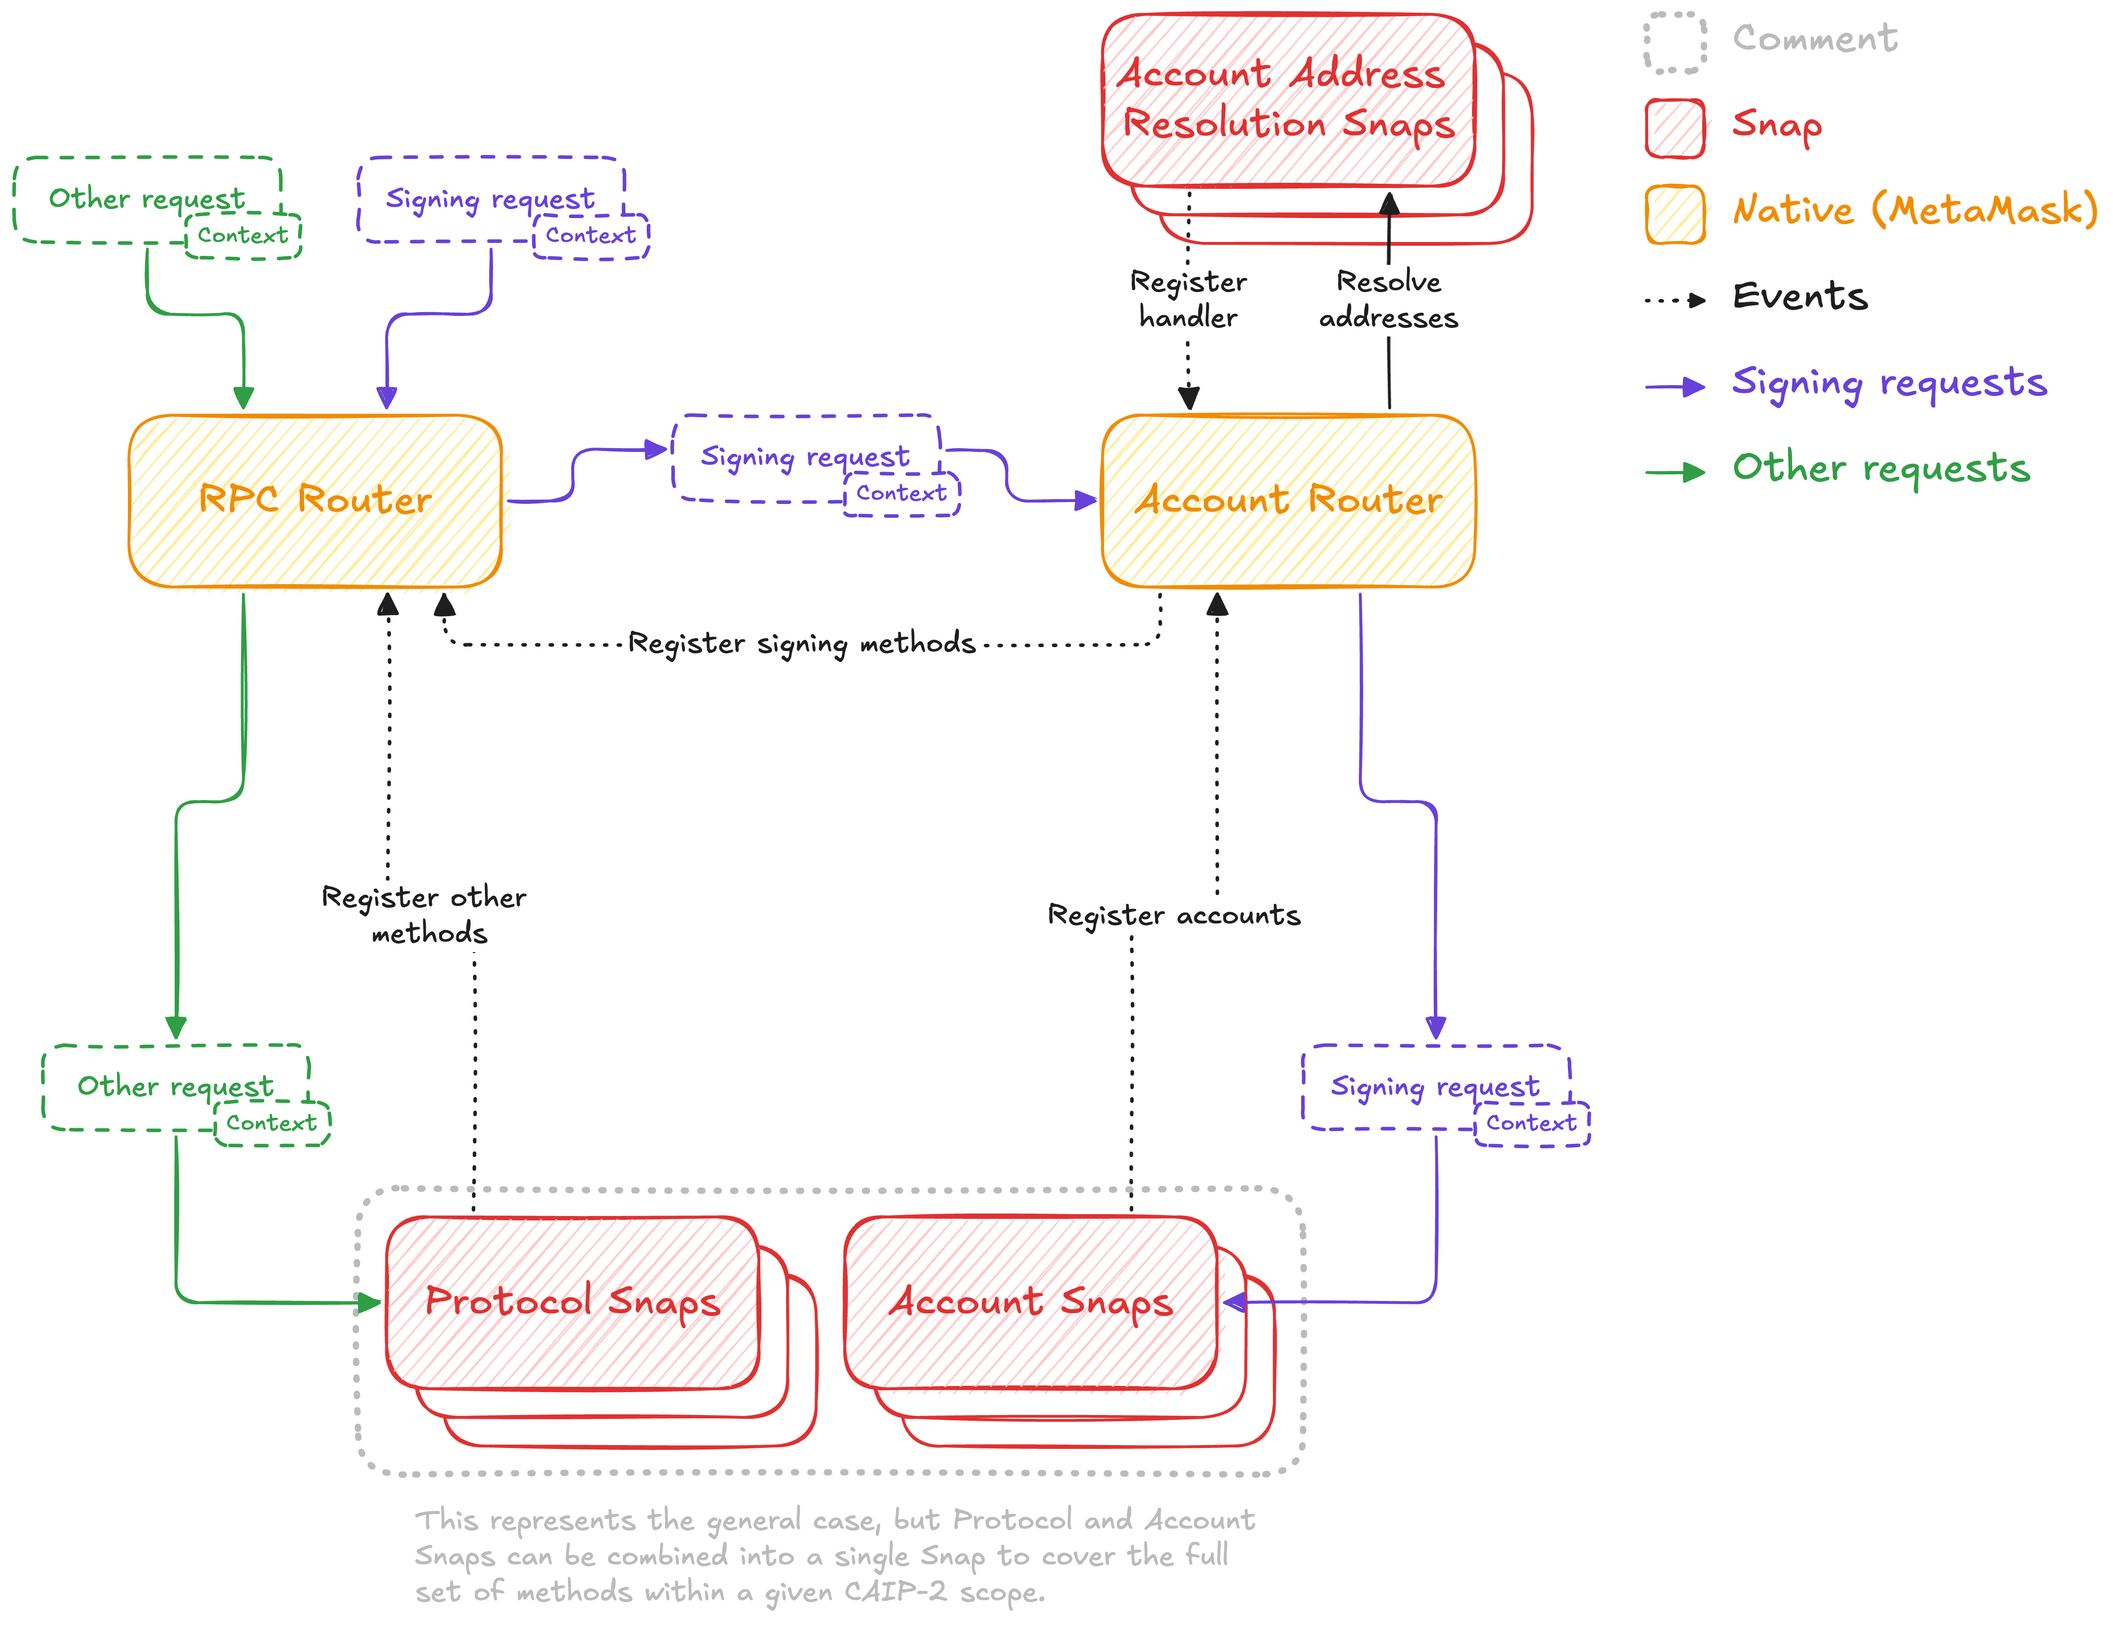
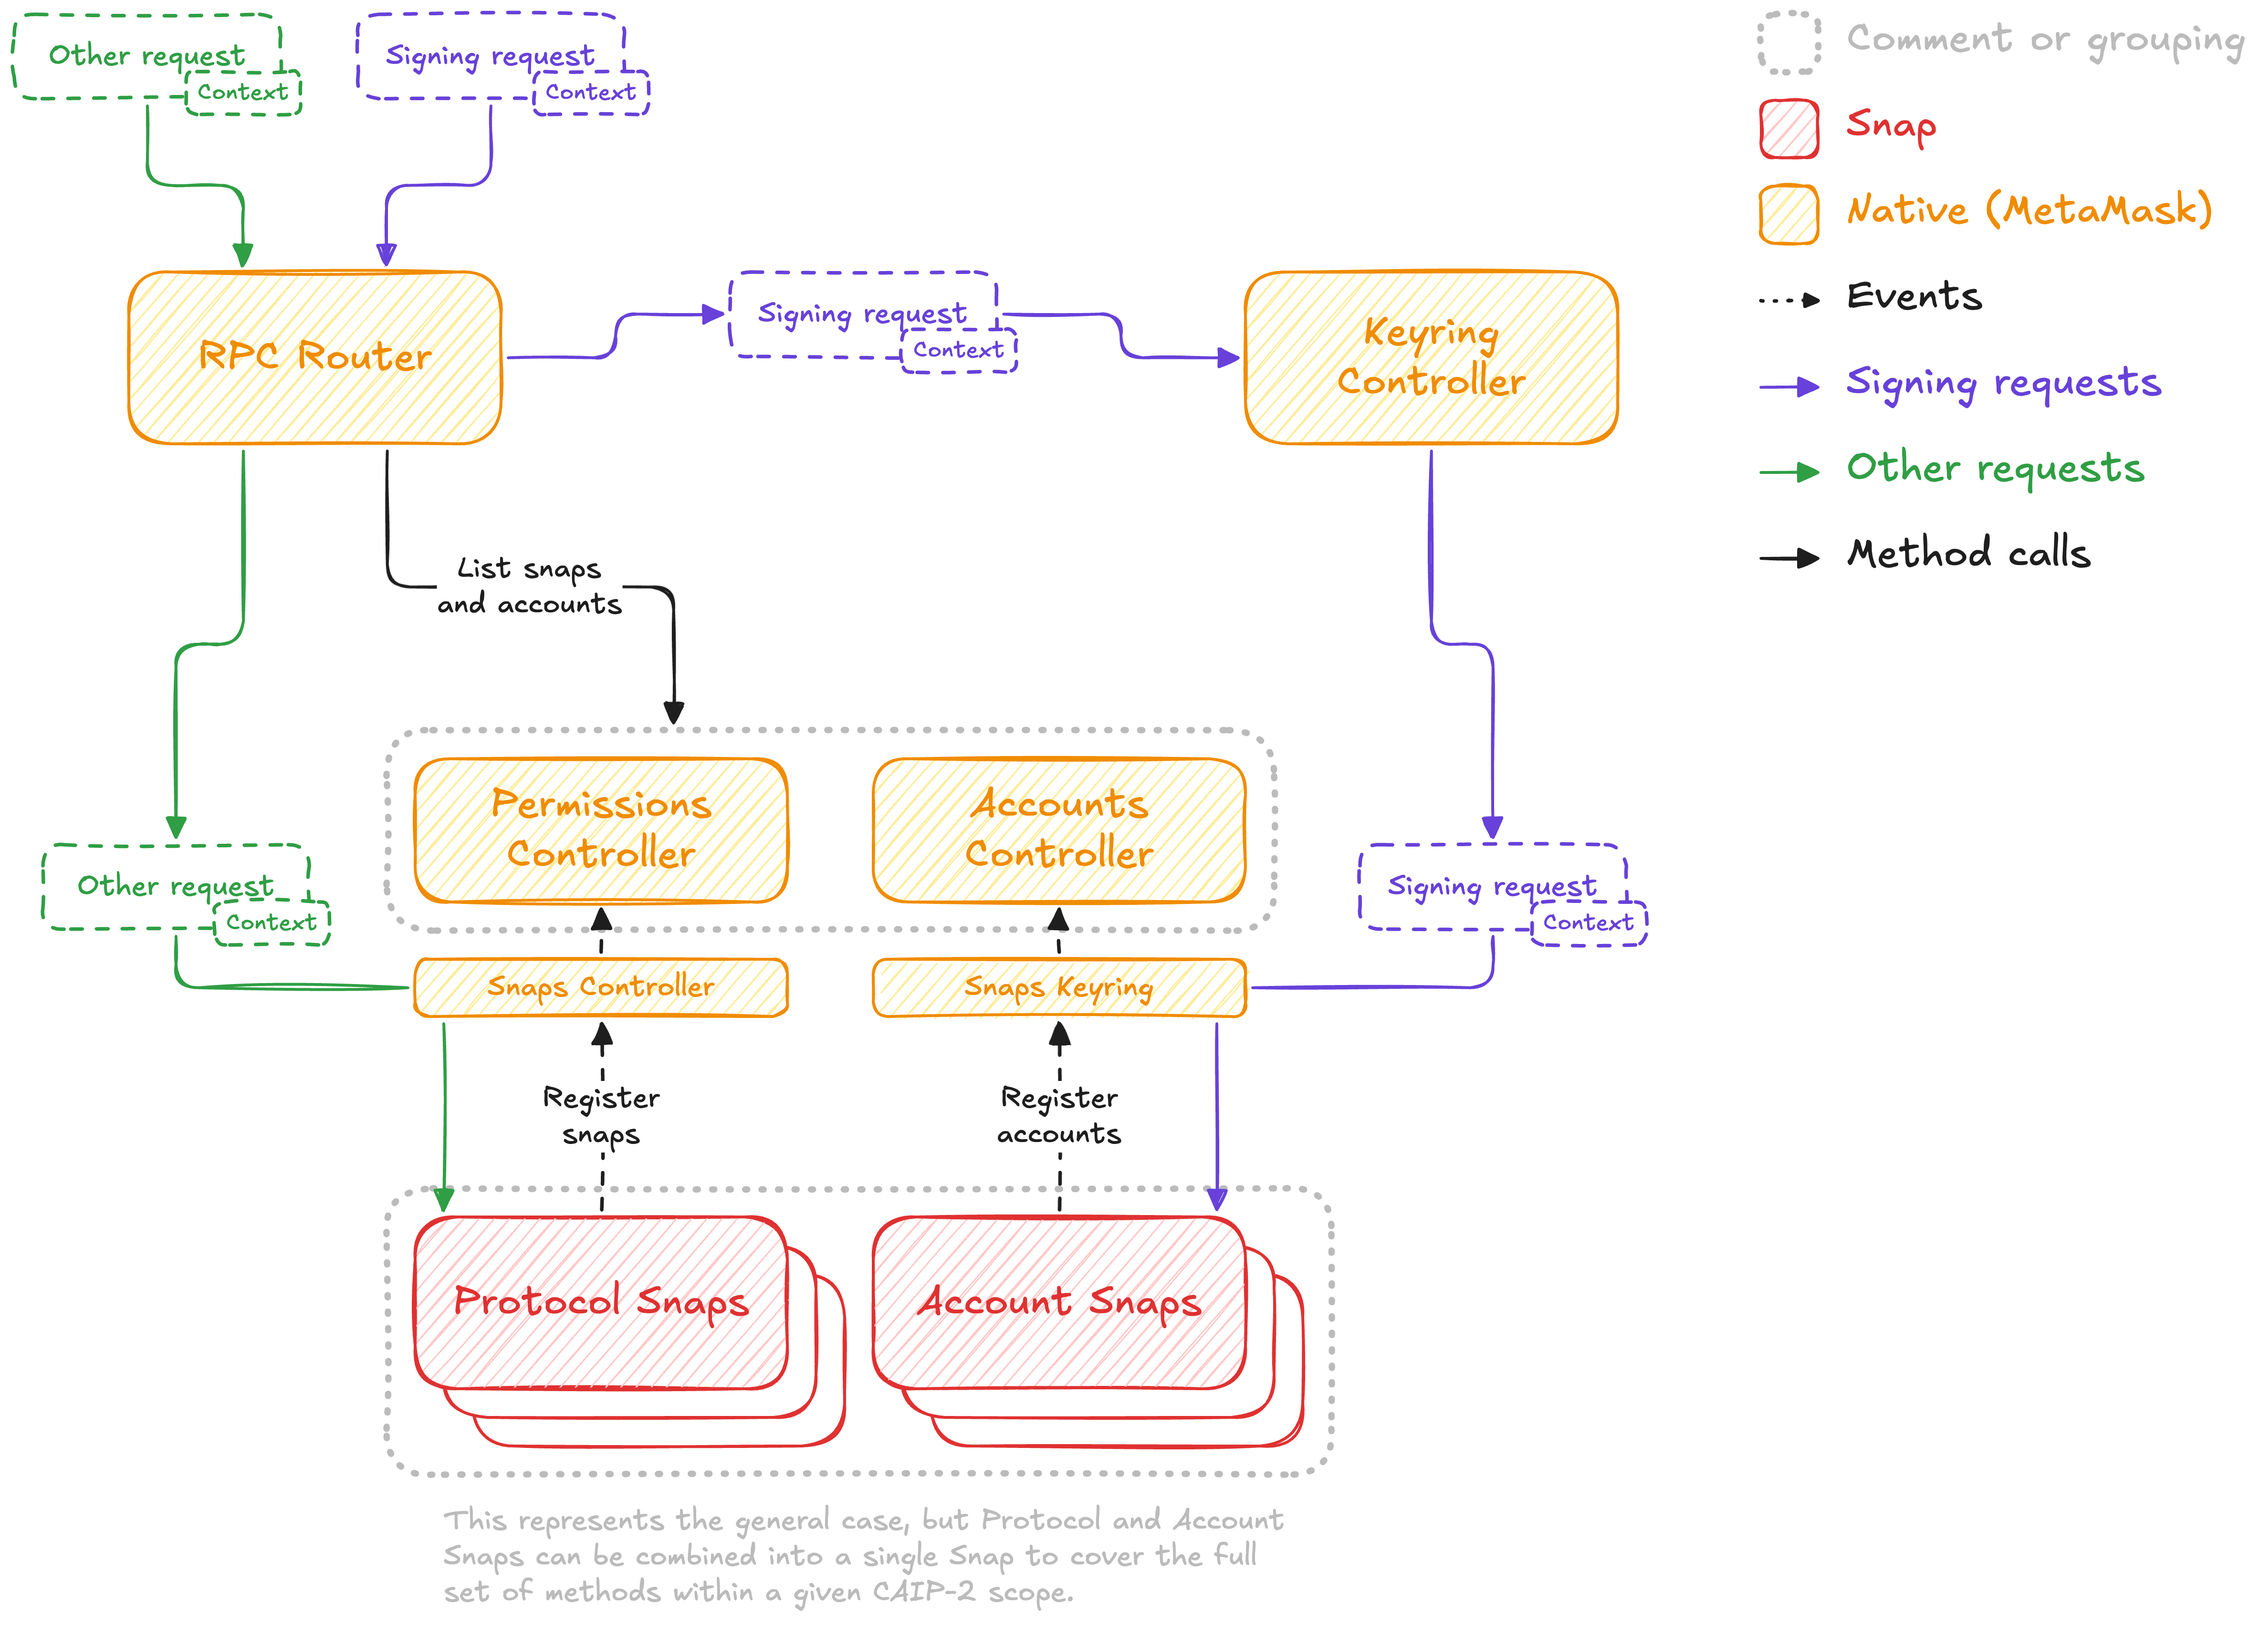
chore: update SIP-26 following latest discussions

diff --git a/SIPS/sip-26.md b/SIPS/sip-26.md
@@ -2,22 +2,21 @@
 sip: 26
 title: Account Router Snaps
 status: Draft
-author: Daniel Rocha (@danroc)
+author: Daniel Rocha (@danroc), Frederik Bolding (@FrederikBolding), Alex Donesky (@adonesky1)
 created: 2024-08-28
 ---
 
 ## Abstract
 
-This SIP proposes a new API to be implemented by a new Account Router, allowing
-the forwarding of signing requests to the appropriate account Snap (i.e., Snaps
-that implement the [Keyring API][keyring-api]).
+This SIP presents an architecture to enable Snaps to expose blockchain-specific
+methods to dapps, extending MetaMask's functionality to support a multichain
+ecosystem.
 
 ## Motivation
 
-The Keyring API is being modified to support non-EVM chains. However, a
-challenge arises in identifying the correct account Snap that should receive
-the signing request, as this information is often only obtainable from the
-request itself, which varies based on the method and chain.
+Currently, MetaMask is limited to EVM-compatible networks. This proposal aims
+to empower developers, both first- and third-party, to use Snaps to add native
+support for non-EVM-compatible chains within MetaMask.
 
 ## Specification
 
@@ -32,8 +31,9 @@ in uppercase in this document are to be interpreted as described in [RFC
 
 ### High-Level architecture
 
-The diagram below represents a high-level architecture of how the Account
-Router integrates with the RPC Router, Account Snaps, and Protocol Snaps.
+The diagram below represents a high-level architecture of how the RPC Router
+integrates inside MetaMask to allow Snaps to expose protocol methods to dapps
+and the MetaMask clients.
 
 ![High-level architecture](../assets/sip-26/components-diagram.png)
 
@@ -43,20 +43,42 @@ Router integrates with the RPC Router, Account Snaps, and Protocol Snaps.
 - **Protocol Snaps**: Snaps that implement protocol methods that do not require
   an account to be executed.
 
-- **RPC Router**: Native component that forwards non-signing requests to the
-  appropriate Protocol Snap or native implementation.
+- **RPC Router**: Native component that forwards RPC requests to the
+  appropriate Protocol Snap, Account Snap or native implementation.
 
-- **Account Router**: Native component that forwards signing requests to the
-  appropriate Account Snap or native implementation.
+- **Keyring Controller**: Native component responsible for forwarding signing
+  requests to the appropriate keyring implementation.
 
-- **Account Address Resolution Snaps**: Snaps that implement the
-  `resolveAccountAddress` method to extract the account address from the
-  request object.
+- **Accounts Controller**: Native component responsible for managing accounts
+  inside MetaMask. It stores all non-sensitive account information.
 
-### Account Router
+- **Snaps Keyring**: Native component that acts as a bridge between the
+  Keyring Controller and the Account Snaps.
 
-The Account Router exposes the [`snap_manageAccounts`][snap-manage-accs] method
-to allow account Snaps to register, remove, and update accounts.
+### Components
+
+Here is a brief description of the components involved in this architecture
+which will require to be implemented or modified.
+
+#### RPC Router
+
+The RPC Router will be a new native component responsible for routing JSON-RPC
+requests to the appropriate Snap or keyring.
+
+To route a request, the RPC Router must extract the method name and chain ID
+from the request object. It then determines whether the method is supported by
+a Protocol Snap or an Account Snap, with Account Snaps taking precedence over
+Protocol Snaps.
+
+If the method is supported by an Account Snap, the RPC Router forwards the
+request to the Keyring Controller; otherwise, it forwards the request to the
+appropriate Protocol Snap.
+
+#### Snaps Keyring
+
+The Snaps Keyring is an existing native component that exposes the
+[snap_manageAccounts][snap-manage-accs] method, allowing Account Snaps to
+register, remove, and update accounts.
 
 For example, this code can be used by an Account Snap to register a new account
 with the Account Router:
@@ -85,16 +107,16 @@ await snap.request({
 Similar events are available to notify about the removal and update of
 accounts: `notify:accountRemoved` and `notify:accountUpdated`.
 
-Additionally, the Account Router expects the Account Snap to implement the
+Additionally, the Snaps Keyring expects the Account Snap to implement the
 Keyring API so it can forward signing requests to it through the
 [`keyring_submitRequest`][submit-request] method.
 
-### Account Address Resolution Snaps
+#### Account Snaps
 
-The Account Address Resolution Snaps are responsible for extracting the account
-address that should receive the signing request from the request object. This
-is accomplished by exposing the `resolveAccountAddress` method to the Account
-Router.
+In addition to the Keyring API, non-EVM Account Snaps must also implement the
+`resolveAccountAddress` method defined below. It is used by the RPC Router to
+extract the addres of the account that should handle the signing request from
+the request object.
 
 ```typescript
 /**
@@ -107,32 +129,7 @@ Router.
 function resolveAccountAddress(request: MultichainRequest): string | undefined;
 ```
 
-There must be only one Account Resolution Snap registered per chain to prevent
-ambiguity in the account resolution process.
-
-To identify which Account Resolution Snap should be used for a given request,
-Account Address Resolution Snaps MUST list the supported chains in their
-manifest file using the [CAIP-2][caip-2] format for chain IDs:
-
-```json5
-"initialPermissions": {
-  "endowment:account-address-resolver": {
-    "chains": [
-      "<chain_id_1>",
-      "<chain_id_2>",
-      // ...
-    ]
-  }
-}
-```
-
-Note that the `reference` part of the [CAIP-2][caip-2] chain ID can be a `*`
-wildcard to match any chain ID of a given namespace (e.g., `eip155:*`).
-
-The RPC Router subscribes to Snap installation events to detect new Account
-Address Resolution Snaps and updates its internal routing table accordingly.
-
-### Protocol Snaps
+#### Protocol Snaps
 
 Protocol Snaps implement and expose methods that do not require an account to
 execute and MUST list their supported methods in their manifest file:
@@ -149,19 +146,12 @@ execute and MUST list their supported methods in their manifest file:
 }
 ```
 
-The RPC Router subscribes to Snap installation events to detect new Protocol
-Snaps and updates its internal routing table accordingly.
-
-> [!IMPORTANT]
-> If a method, for a given chain, is registered by both a Protocol Snap and the
-> Accounts Router, only the Accounts Router will be used to handle requests for
-> that method and chain.
-
-### Context object
+#### Context object
 
 Alongside the request object, a context object is passed along to keep internal
 state related to the request. Its structure is not defined by this SIP, but a
-primary use would be to keep the resolved account ID.
+primary use would be to keep the resolved account ID or the list of connected
+accounts that could potentially handle the request.
 
 ## Copyright
 
